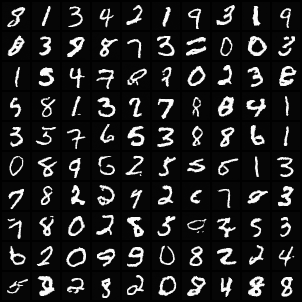
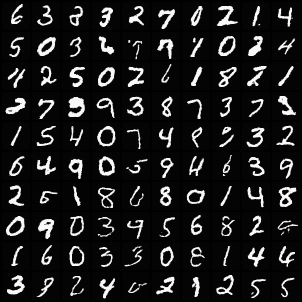
try ddim

diff --git a/README.md b/README.md
@@ -1,26 +1,16 @@
-This repo reimplements the MNIST auto encoder experiment in Hinton's 2006 paper: Reducing the Dimensionality of Data with Neural Networks.
+这个branch打算实验一个intuitive的采样方法：
 
-To start, run 
-
-`uv run main.py`
-
-By far, I've establishd a baseline on MNIST with 3.36 average square loss, compared to 3.00 reported in the paper. A visualization of some reconstructed test set data can be found below and they look pretty much the same to the original data.
+因为：
+x_t = sqrt(a_bar_t)x_0 + sqrt(1-a_bar_t)epsilon
 
 
-**Original:**
+x_{t-1} = sqrt(a_bar_{t-1})x_0 + sqrt(1-a_bar_{t-1})epsilon
 
-![](data.png)
+那么
 
-**Reconstructed:**
+x_0 = (x_t - sqrt(1-a_bar_t)epsilon) / sqrt(a_bar_t)
 
-![](outputs.png)
+x_{t-1} = (x_t - sqrt(1-a_bar_t)epsilon) / sqrt(a_bar_t) * sqrt(a_bar_{t-1}) + sqrt(1-a_bar_{t-1})epsilon 
+= sqrt(a_bar_{t-1}) / sqrt(a_bar_t) * x_t + sqrt(1-a_bar_{t-1}) (sqrt(a_bar_{t-1}) / sqrt(a_bar_t) - 1)epsilon)
 
-Almost 20 years have passed and it only takes me collectively an hour or so to implement this experiment. On a RTX 3060, the whole training takes only a little more than one minute. I can avoid worrying about the Boltzman Machine algorithm, and the training succeeds with the help of better initialization, better optimizer, batch norm, gradient clipping, and learning rate scheduler etc.
-
-那么现在有一个小成就，就是训练的时候按照flow的方法，每一个epoch都训练所有step，然后生成的时候，按照step * 2去生成，step=3的时候，效果还不错
-
-see model_3.pth and outputs_3.png
-
-step=5的时候，按照step*3去生成，效果也还不错
-
-see model_5.pth and outputs_5.png
+这个看上去特别像是DDIM，我需要花一些时间把这个搞清楚。
